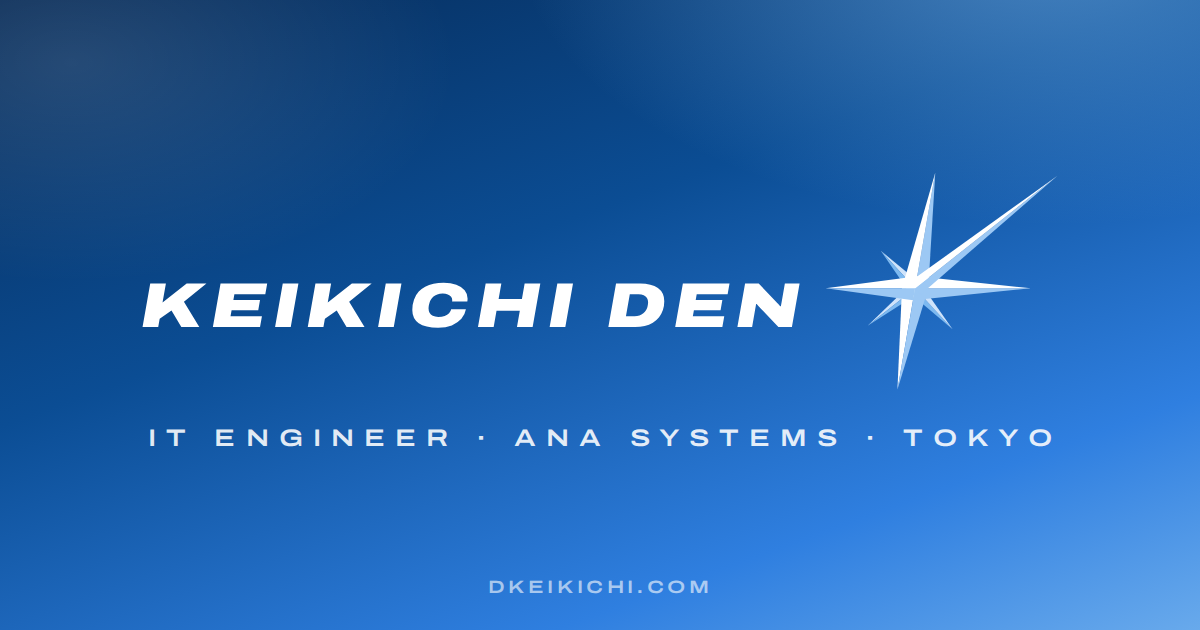
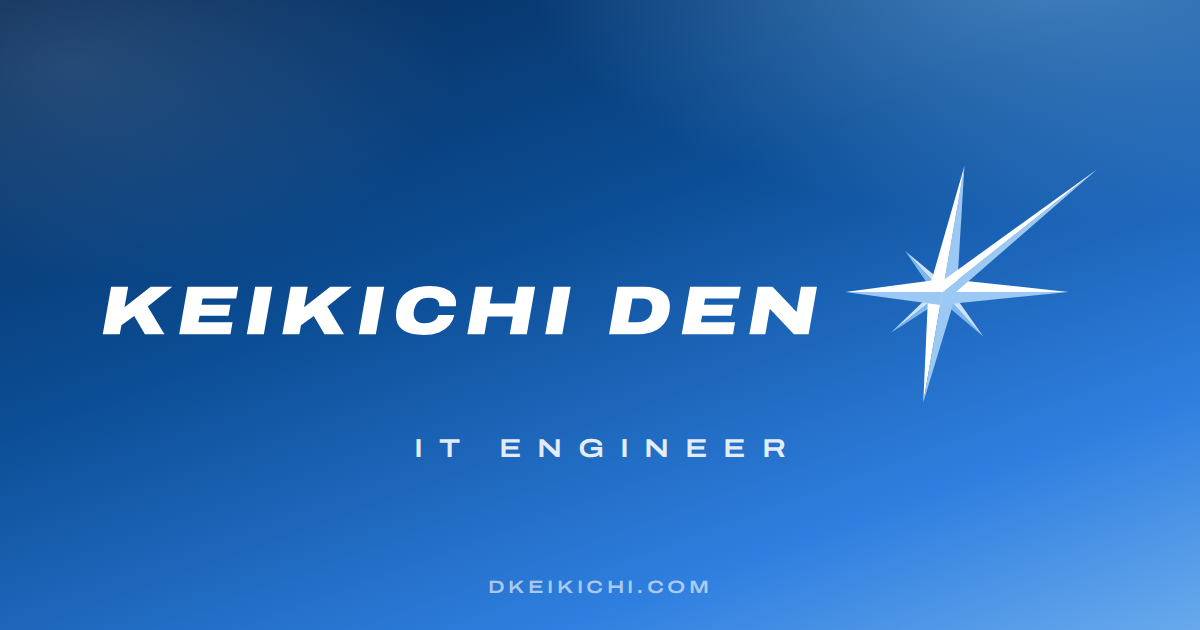
Share image: drop employer, enlarge the name
The share image and README banner now read KEIKICHI DEN / IT ENGINEER
only, so they stay valid after a job change. og:image:alt updated to
match.

Claude-Session: https://claude.ai/code/session_011K9KwUm6YbVPagct7Dc1fV

diff --git a/_src/og-image.html b/_src/og-image.html
@@ -24,16 +24,16 @@
             radial-gradient(700px 400px at 6% 10%, rgba(255, 255, 255, .12), transparent 55%),
             linear-gradient(160deg, #062a56 0%, #0b4d94 40%, #2f7fe0 78%, #7db9f0 108%);
     }
-    .og img { width: 920px; margin-top: -10px; }
+    .og img { width: 1000px; margin-top: -6px; }
     .og p, .og small { font-family: 'Archivo', sans-serif; font-stretch: 125%; font-weight: 600; }
-    .og p { margin: 34px 0 0; font-size: 24px; line-height: 1; letter-spacing: .42em; padding-left: .42em; color: rgba(255, 255, 255, .88); }
+    .og p { margin: 30px 0 0; font-size: 26px; line-height: 1; letter-spacing: .6em; padding-left: .6em; color: rgba(255, 255, 255, .88); }
     .og small { position: absolute; bottom: 34px; font-size: 18px; line-height: 1; letter-spacing: .2em; color: rgba(255, 255, 255, .6); }
 </style>
 </head>
 <body>
     <div class="og">
         <img src="../brand/logo-white.svg" alt="">
-        <p>IT ENGINEER · ANA SYSTEMS · TOKYO</p>
+        <p>IT ENGINEER</p>
         <small>DKEIKICHI.COM</small>
     </div>
 </body>

diff --git a/_src/index.template.html b/_src/index.template.html
@@ -20,7 +20,7 @@
     <meta property="og:image" content="https://dkeikichi.com/brand/og-image.png">
     <meta property="og:image:width" content="1200">
     <meta property="og:image:height" content="630">
-    <meta property="og:image:alt" content="Keikichi Den — IT Engineer · ANA Systems · Tokyo">
+    <meta property="og:image:alt" content="Keikichi Den — IT Engineer">
     <meta name="twitter:card" content="summary_large_image">
     <!-- Google Search needs a crawlable icon that is SVG or a multiple of 48px square -->
     <link rel="icon" href="/favicon.ico" sizes="48x48">

diff --git a/index.html b/index.html
@@ -21,7 +21,7 @@
     <meta property="og:image" content="https://dkeikichi.com/brand/og-image.png">
     <meta property="og:image:width" content="1200">
     <meta property="og:image:height" content="630">
-    <meta property="og:image:alt" content="Keikichi Den — IT Engineer · ANA Systems · Tokyo">
+    <meta property="og:image:alt" content="Keikichi Den — IT Engineer">
     <meta name="twitter:card" content="summary_large_image">
     <!-- Google Search needs a crawlable icon that is SVG or a multiple of 48px square -->
     <link rel="icon" href="/favicon.ico" sizes="48x48">

diff --git a/ja/index.html b/ja/index.html
@@ -21,7 +21,7 @@
     <meta property="og:image" content="https://dkeikichi.com/brand/og-image.png">
     <meta property="og:image:width" content="1200">
     <meta property="og:image:height" content="630">
-    <meta property="og:image:alt" content="Keikichi Den — IT Engineer · ANA Systems · Tokyo">
+    <meta property="og:image:alt" content="Keikichi Den — IT Engineer">
     <meta name="twitter:card" content="summary_large_image">
     <!-- Google Search needs a crawlable icon that is SVG or a multiple of 48px square -->
     <link rel="icon" href="/favicon.ico" sizes="48x48">

diff --git a/.github/README.md b/.github/README.md
@@ -1,4 +1,4 @@
-[![KEIKICHI DEN — IT Engineer · ANA Systems · Tokyo](/brand/og-image.png)](https://dkeikichi.com/)
+[![KEIKICHI DEN — IT Engineer](/brand/og-image.png)](https://dkeikichi.com/)
 
 # dkeikichi.com
 
